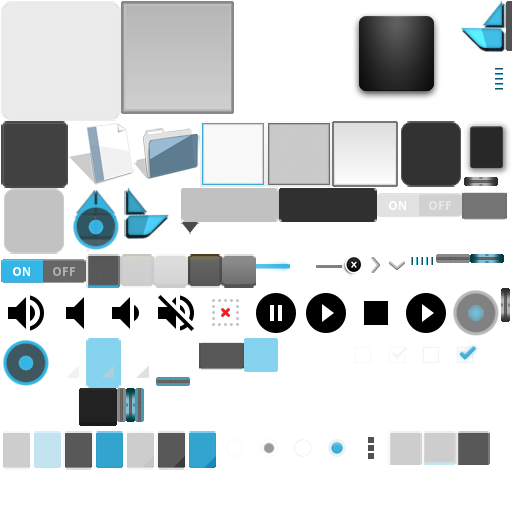
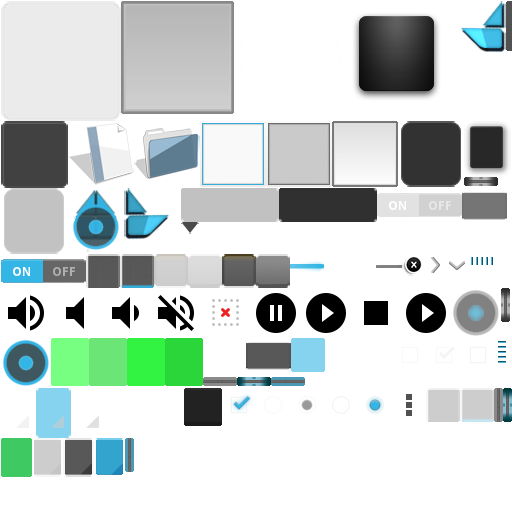
Updated theme assets

diff --git a/QBApp.py b/QBApp.py
@@ -23,7 +23,8 @@ class QueryBuilder(BoxLayout):
 	res_layout = ObjectProperty()
 
 	Label.color = (0, 0, 0, 1)
-	Button.background_color: (241, 240, 240, 0.1)
+	#Button.background_color= (119, 244, 128, 1)
+
 	def binary_search(self, tuple_array, pause_time):
 		low = 0
 		high = len(tuple_array)
@@ -78,8 +79,7 @@ class QueryBuilder(BoxLayout):
 		self.populate_objects(time_tuple)
 		self.get_event_details(time_tuple)
 		self.get_best_batsmen(time_tuple)
-		self.get_best_bowlers(time_tuple)
-	
+		self.get_best_bowlers(time_tuple)	
 
 	def update_button(self):
 		self.init(self.video_player.position)
@@ -118,8 +118,7 @@ class QueryBuilder(BoxLayout):
 class QBApp(App):
 	def build(self):
 		atlas = Atlas("assets/material.atlas")
-		Cache.append("kv.atlas", 'data/images/defaulttheme', atlas)
-		#super(QBApp, self).build()
+		Cache.append("kv.atlas", 'data/images/defaulttheme', atlas)		
 		return QueryBuilder()		
 
 		
